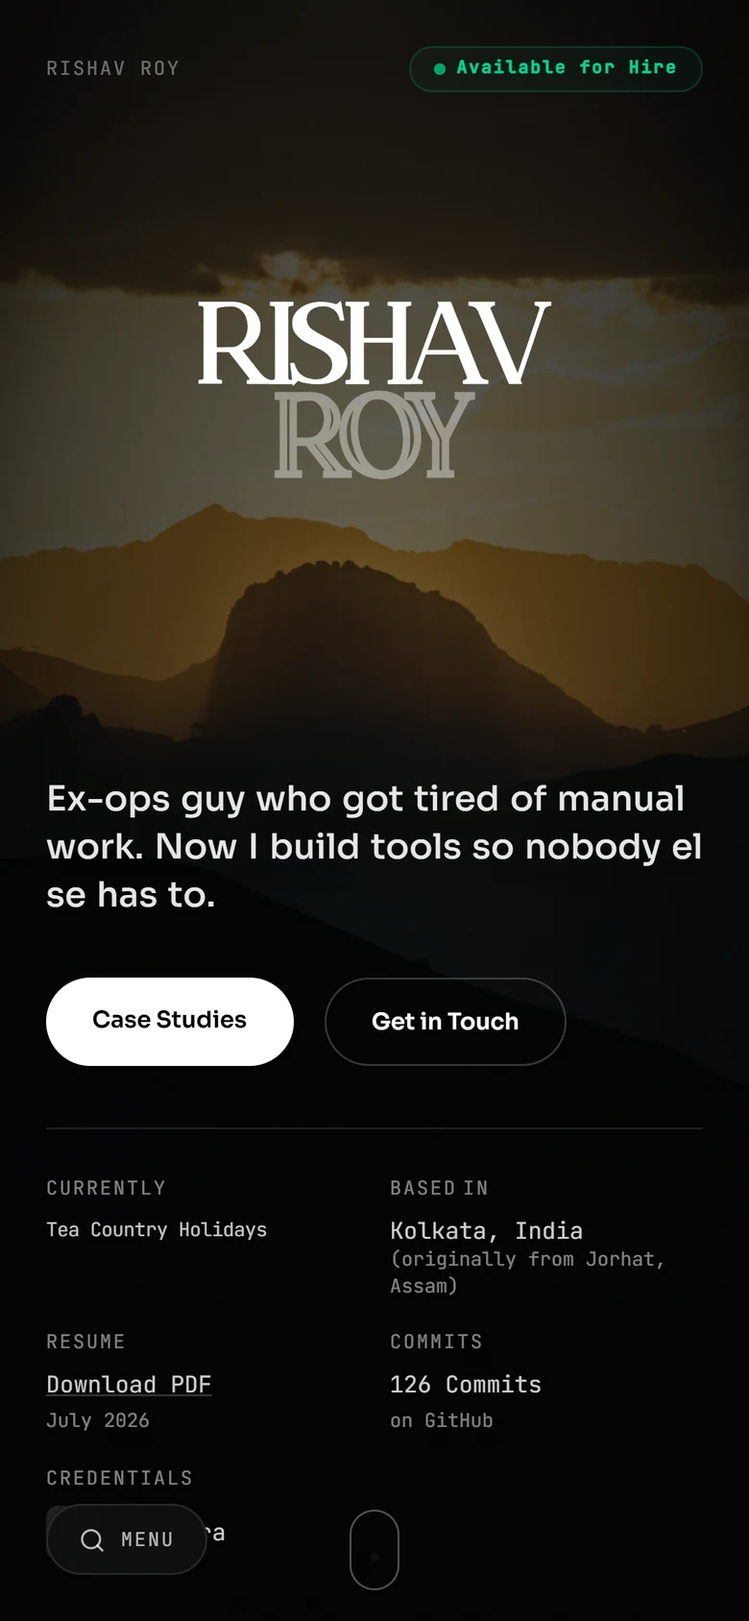
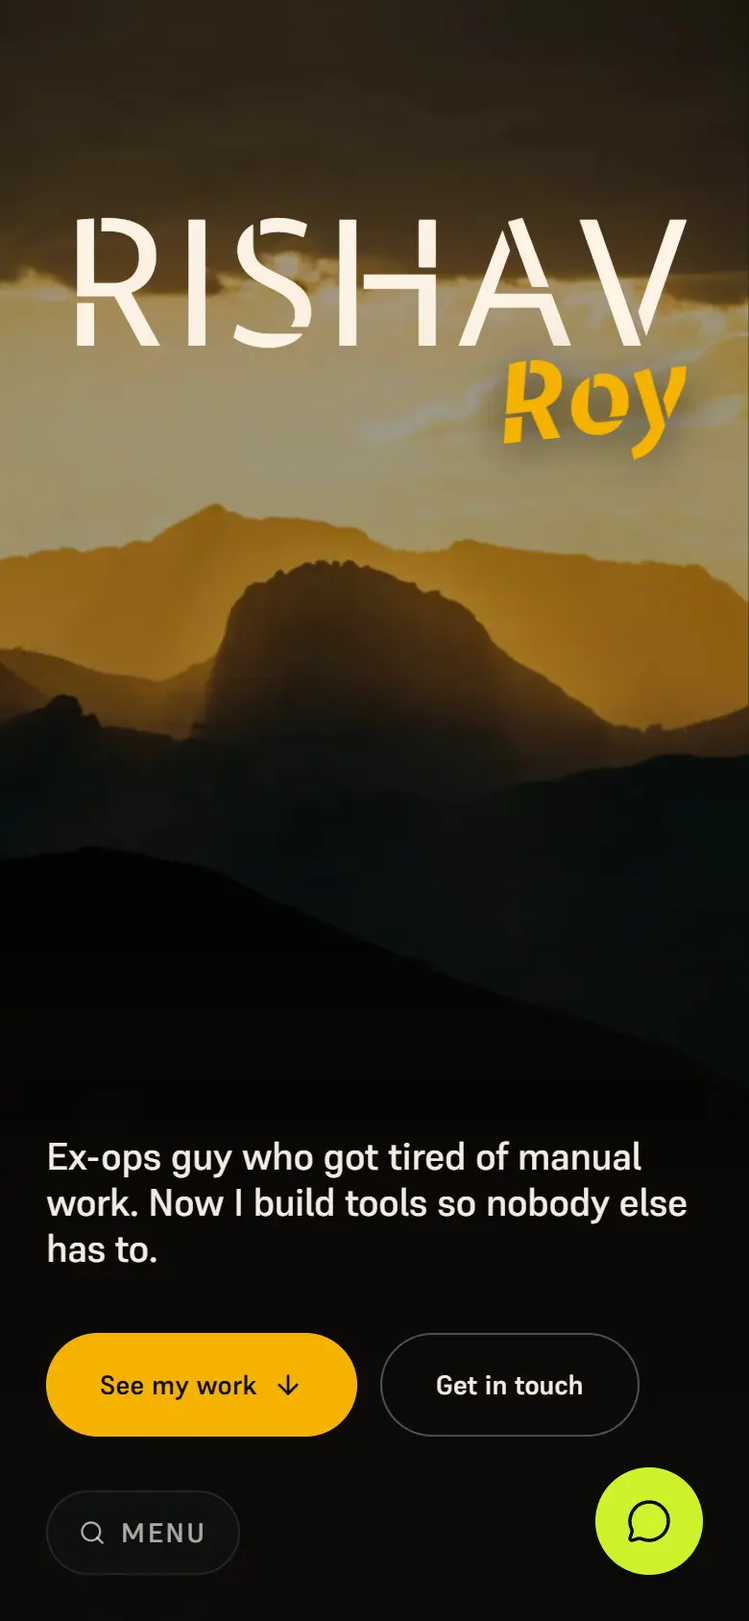
Screaming Frog fixes: clean H1, one robots tag, no meta keywords, plain case-study copy and full-sentence descriptions, new byrishav.online case study, lighter screenshots, more links to /atelier

diff --git a/src/lib/projectsData.ts b/src/lib/projectsData.ts
@@ -29,7 +29,7 @@ export const projects = [
     id: 3,
     title: "Clash Bazar",
     description:
-      "An e-commerce platform for a gaming YouTuber with 12K+ subscribers. Payments via Stripe and PayPal are held through a secure transaction workflow until order completion and a 7-day security window expires.",
+      "An e-commerce platform for the V7 CLASH gaming channel. Payments via Stripe and PayPal are held through a secure transaction workflow until order completion and a 7-day security window expires.",
     tags: ["Next.js", "Supabase", "Stripe", "PayPal", "Transaction Security", "Discord API"],
     link: "https://clash-bazar.vercel.app",
     images: [
@@ -56,6 +56,8 @@ export const projects = [
 export interface CaseStudy {
   title: string;
   tagline: string;
+  /** One complete sentence for search results, under 155 characters. */
+  summary: string;
   client: string;
   period: string;
   color: string;
@@ -78,6 +80,7 @@ export const caseStudiesData: Record<number, CaseStudy> = {
   1: {
     title: "Tea Country Holidays",
     tagline: "Custom travel platform and owner-managed CMS",
+    summary: "How we built Tea Country Holidays a travel site with its own admin, so the owner updates 34 packages and her prices without a developer.",
     client: "Tea Country Holidays Travel Agency",
     period: "Jan 2026 \u2013 Apr 2026",
     metrics: [
@@ -90,8 +93,8 @@ export const caseStudiesData: Record<number, CaseStudy> = {
     links: [
       { label: "Live Site", url: "https://tea-country-holidays.vercel.app", icon: "live" }
     ],
-    problem: "The client was running her travel business on Excel sheets, static Word files, and Gemini-assisted itinerary drafts. She had previously paid good money for a website that underdelivered. She had no way to update package information, pricing, or offers without depending on a developer for every small change.",
-    solution: "Built a custom travel platform from scratch with a bespoke admin dashboard. The non-technical owner can now add and edit packages, update fixed pricing, manage destination content, and post promotional offers, all through the CMS without writing code.",
+    problem: "The owner ran her travel business from Excel sheets and Word files. An earlier website had cost her a lot and did little. She could not change a price or add an offer without paying a developer.",
+    solution: "We built her a new travel site with its own admin. She adds packages, changes prices, edits destinations and posts offers herself, with no code.",
     architecture: {
       description: "A database-driven content platform with a custom admin layer designed for a non-technical operator.",
       steps: [
@@ -113,14 +116,15 @@ export const caseStudiesData: Record<number, CaseStudy> = {
         fix: "Designed the data model around the owner\u2019s mental model of her business rather than abstract relational purity, keeping the admin interface intuitive."
       }
     ],
-    businessValue: "Transformed the client\u2019s operation from a scattered mix of Excel and Word documents into a centralized platform she fully controls. She no longer depends on a developer for routine updates: pricing changes, new packages, and promotional offers are all self-service.",
-    lessons: "When building for a non-technical owner, the admin interface and data model matter just as much as the public-facing website. The CMS has to match how the client actually thinks about her business.",
+    businessValue: "Her business now runs from one site she controls. Price changes, new packages and offers no longer need a developer.",
+    lessons: "For an owner who isn't technical, the admin matters as much as the public site. It has to match how she thinks about her business.",
     futureImprovements: "Integration with direct flight APIs and an automated CRM payment gateway link.",
     color: "#F5B301"
   },
   2: {
     title: "IQ Iron Fitness",
     tagline: "Cloud-hosted gym management platform and billing engine",
+    summary: "How we built IQ Iron Fitness a cloud gym system: 110+ members, automatic invoices and trainer pay, fast on an old laptop and a phone.",
     client: "IQ Iron Fitness Gym Owner",
     period: "Oct 2025 \u2013 Jan 2026 (Online Overhaul)",
     metrics: [
@@ -134,8 +138,8 @@ export const caseStudiesData: Record<number, CaseStudy> = {
       { label: "Live Demo", url: "https://iq-iron-fitness-online-crm.vercel.app", icon: "live" },
       { label: "GitHub Code", url: "https://github.com/rishav00roy-web/IQ-iron-fitness-online-crm", icon: "github" }
     ],
-    problem: "The gym owner needed to track 110+ active members, handle billing, and calculate trainer pay. The system had to run smoothly on an older laptop and provide a usable mobile experience on an iPhone 15 Pro Max. There was no room for a heavy, sluggish UI.",
-    solution: "Built a Next.js + Supabase cloud platform with real-time sync, a custom billing engine that generates membership invoices, and a salary-slip builder that computes trainer commissions. The dashboard gives the owner an immediate operational snapshot: pending memberships, expiring memberships, expired memberships, today\u2019s birthdays, outstanding payments, and monthly collection totals.",
+    problem: "The gym owner had 110+ members to track, bills to send and trainer pay to work out. It all had to run well on an old laptop and on his phone.",
+    solution: "We built a cloud system that keeps every device in sync. It writes membership invoices, works out trainer salary slips, and shows the day at a glance: pending, expiring and expired memberships, birthdays, money owed and the month's takings.",
     architecture: {
       description: "A cloud-hosted architecture with real-time data sync, automated billing, and a hardware-conscious UI layer.",
       steps: [
@@ -157,18 +161,19 @@ export const caseStudiesData: Record<number, CaseStudy> = {
         fix: "Configured optimistic UI updates via React hooks alongside Supabase real-time replication broadcasts, keeping the interface responsive while maintaining data integrity."
       }
     ],
-    businessValue: "Replaced manual record-keeping with a cloud platform that gives the owner instant operational visibility. Billing and payroll are automated, and the system is built to scale comfortably as the gym grows toward 500+ members.",
-    lessons: "Designing for real-world hardware constraints, like the owner\u2019s specific older laptop, shapes performance and UI decisions more than abstract benchmarks ever will.",
+    businessValue: "Paper records are gone. The owner sees the whole gym at a glance, billing and pay are automatic, and the system can grow with the gym.",
+    lessons: "Building for the owner's real laptop shaped the design more than any benchmark would have.",
     futureImprovements: "Full SMS gateway integration and biometric scanner API sync.",
     color: "#10B981"
   },
   3: {
     title: "Clash Bazar",
     tagline: "Secure transaction platform for gaming services",
+    summary: "How we built Clash Bazar for V7 CLASH: a gaming store that holds payments until each order is checked, so buyers and sellers are safe.",
     client: "YouTube Gaming Community Creator",
     period: "May 2026 \u2013 Ongoing",
     metrics: [
-      { label: "Community", value: "12K+" },
+      { label: "Payment hold", value: "7 days" },
       { label: "Security Window", value: "7 Days" },
       { label: "Payments", value: "Stripe + PayPal" },
       { label: "Status Polling", value: "5 Min" }
@@ -178,8 +183,8 @@ export const caseStudiesData: Record<number, CaseStudy> = {
       { label: "Live Demo", url: "https://clash-bazar.vercel.app", icon: "live" },
       { label: "GitHub Code", url: "https://github.com/rishav00roy-web/ClashVault", icon: "github" }
     ],
-    problem: "High-value gaming trades are riddled with scams: buyers commit chargeback fraud, and sellers reclaim accounts after getting paid. The creator needed a structured platform to protect both sides of every transaction within their 12K+ subscriber community.",
-    solution: "Built a secure e-commerce platform with an application-managed escrow-style workflow. Payments via Stripe and PayPal are held securely until the order is verified and a 7-day security window expires. Created a custom admin dashboard so the non-technical owner can manage orders, monitor operations, and maintain a financial ledger without writing code. Connected the platform to Discord for community giveaways and free item distribution.",
+    problem: "Trading game accounts is full of scams. Buyers reverse payments, and sellers take accounts back after being paid. The V7 CLASH channel needed a safe way to trade for its community.",
+    solution: "We built a store that holds each payment until the order is checked and a 7-day safety window passes. Payments go through Stripe and PayPal. The owner runs orders, checks activity and keeps the books from his own admin, with no code.",
     architecture: {
       description: "An application-managed transaction pipeline with secure payment handling and automated status verification.",
       steps: [
@@ -201,54 +206,56 @@ export const caseStudiesData: Record<number, CaseStudy> = {
         fix: "Implemented a mandatory 7-day security window during which the account\u2019s credentials must be fully transferred and locked before funds are released."
       }
     ],
-    businessValue: "Gave the creator a secure middleman platform that protects their 12K+ subscriber community from fraud, complete with the admin tools a non-technical owner needs to run the operation independently.",
-    lessons: "Financial workflows require defensive engineering. Every payment state transition needs an idempotent fallback, and you cannot rely solely on webhooks for critical transaction confirmation.",
+    businessValue: "The channel now has a safe middleman for its community, with the admin tools to run it alone.",
+    lessons: "Money needs careful handling. Every payment step needs a backup check, because payment notifications can go missing.",
     futureImprovements: "Full automation of game account checking using Supercell API integrations.",
     color: "#8B5CF6"
   },
   4: {
-    title: "Personal Portfolio V2",
-    tagline: "A meticulously crafted developer portfolio demonstrating high-end animation and UI/UX design",
-    client: "Personal Project",
-    period: "July 2026",
+    title: "byrishav.online",
+    tagline: "Rishav Roy's portfolio and the Atelier Systems studio page: two sites, one codebase",
+    summary: "How Rishav Roy rebuilt byrishav.online: a portfolio for recruiters and a studio page for clients, with an AI assistant, fast pages and local SEO.",
+    client: "Personal project",
+    period: "Nov 2026",
     metrics: [
-      { label: "Performance", value: "98" },
-      { label: "Animations", value: "60 FPS" },
-      { label: "SEO", value: "Optimized" },
-      { label: "Design", value: "Responsive" }
+      { label: "Pages", value: "2 sites" },
+      { label: "Layout shift", value: "0.01" },
+      { label: "AI assistant", value: "Psunk" },
+      { label: "Tests", value: "15 passing" }
     ],
-    tags: ["Next.js 14", "Framer Motion", "Tailwind CSS", "React 19", "Vercel"],
+    tags: ["Next.js 16", "React 19", "Tailwind CSS v4", "GSAP", "Lenis", "Groq AI", "Schema.org"],
     links: [
       { label: "Live Site", url: "https://byrishav.online", icon: "live" },
+      { label: "Atelier Systems", url: "https://byrishav.online/atelier", icon: "live" },
       { label: "GitHub Code", url: "https://github.com/rishav00roy-web/Portfolio-website", icon: "github" }
     ],
-    problem: "Traditional developer portfolios often lack character and fail to demonstrate actual front-end engineering skills. I needed a platform that not only lists my projects but serves as a living, interactive proof of my ability to build polished, performant UIs.",
-    solution: "Developed an immersive portfolio experience using Next.js App Router and Framer Motion. Implemented scroll-linked animations, a custom command menu (Ctrl+K), and a highly optimized rendering strategy to maintain 60fps animations across devices.",
+    problem: "One site had to do two jobs. Recruiters want to read about Rishav quickly. Clients want to see work and start a project. Mixing both on one page served neither.",
+    solution: "We split it into two sites that share one codebase. The portfolio has a sunset hero, a story of his path and his experience. Atelier Systems, the studio page, has its own ivory and teal look, the client work, a clients section and a contact form. Psunk, an AI assistant, answers questions on both, trained on each site's own content.",
     architecture: {
-      description: "A modern React application structured for optimal client-side interactivity and fast static delivery.",
+      description: "One Next.js app serving two identities, with shared data so the pages, the assistant and the search data never disagree.",
       steps: [
-        { title: "Scroll Orchestration", desc: "Framer Motion\u2019s `useScroll` and `useTransform` map scroll position directly to element styles." },
-        { title: "Component Architecture", desc: "Strict separation of Server and Client components ensures minimum JS bundle size while preserving rich interactions." },
-        { title: "Global Command Palette", desc: "A custom-built `CommandMenu` provides fast, keyboard-first navigation globally." },
-        { title: "Responsive Layouts", desc: "Tailwind CSS manages complex grid structures that elegantly collapse on mobile devices without layout shifting." }
+        { title: "Two identities", desc: "Each site has its own colours and fonts, scoped in CSS, and an animated logo trace carries you from one to the other." },
+        { title: "One source of facts", desc: "Profile, services, work and FAQ live in shared data files that feed the pages, the AI assistant, llms.txt and the search schema." },
+        { title: "AI assistant", desc: "Psunk runs on Groq and answers from each site's facts only, with no prices or private client details." },
+        { title: "Found by people and AI", desc: "Structured data, an FAQ written answer-first, llms.txt and a robots.txt that welcomes AI search and answer engines." }
       ]
     },
     challenges: [
       {
-        title: "Animation Jitter on Mobile Safari",
-        description: "Complex scroll-linked transforms were causing layout recalculations and dropped frames on older iOS devices.",
-        fix: "Delegated heavy animations to the GPU by forcing `will-change: transform` and using spring physics (`useSpring`) over raw scroll values to smooth out sudden user scrolls."
+        title: "Smooth on slow phones",
+        description: "A moving background grid, screenshots and animations made the page stutter on slower phones.",
+        fix: "The grid sleeps when nothing moves, screenshots are plain images, and text effects that cost a repaint were removed. Dropped frames fell from 78% to 6% in a slowed-down test."
       },
       {
-        title: "Accessibility with Motion",
-        description: "Heavy animations can trigger motion sickness and reduce screen reader accessibility.",
-        fix: "Implemented `useReducedMotion` hooks to respect OS-level accessibility settings, gracefully degrading animations to simple opacity fades."
+        title: "Two looks without two codebases",
+        description: "The studio needed a light ivory look while the portfolio stays dark, on the same components.",
+        fix: "Each site sets its own colour and font variables in one scope, so shared parts like the contact form and chat dress themselves for the site they're on."
       }
     ],
-    businessValue: "Acts as a primary lead generation tool for freelance clients and a technical showcase for employment opportunities.",
-    lessons: "Animation must serve a purpose and never block the main thread. Prioritizing CSS transforms over layout-triggering properties is essential for 60fps experiences.",
-    futureImprovements: "Implementing an interactive 3D WebGL hero background using Three.js.",
-    color: "#3B82F6"
+    businessValue: "Recruiters get a clear story and a CV in a few seconds. Clients get the studio, its work and a quote request, and the studio can be found when someone asks a search engine or an AI assistant for a developer in Jorhat.",
+    lessons: "Plain words and fast pages beat effects. Every animation has to earn its place, and every claim on the page has to be true.",
+    futureImprovements: "Add Chennai to the studio's local pages after the move, and a short video demo of the invoice reader.",
+    color: "#CDF22B"
   }
 };
 
@@ -348,7 +355,7 @@ export const categorizedProjects: {
         title: "ClashVault (Clash Bazar)",
         githubRepoName: "ClashVault",
         category: "Client Websites",
-        description: "E-commerce and services marketplace for a gaming YouTuber with 12K+ subscribers. Payments held through a secure transaction workflow until order completion and a 7-day security window expires. Dispute resolution admin panel, dual buyer/seller dashboards.",
+        description: "E-commerce and services store for the V7 CLASH gaming channel. Payments held through a secure transaction workflow until order completion and a 7-day security window expires. Dispute resolution admin panel, dual buyer/seller dashboards.",
         tags: ["Next.js", "Supabase", "Stripe", "PayPal", "Discord API"],
         caseStudySlug: "clash-bazar",
         liveUrl: "https://clash-bazar.vercel.app",
@@ -412,11 +419,11 @@ export const categorizedProjects: {
       },
       {
         id: "personal-portfolio-v2",
-        title: "Personal Portfolio V2",
+        title: "byrishav.online",
         githubRepoName: "Portfolio-website",
         category: "Web Apps / Tools",
-        description: "An immersive, animation-driven developer portfolio built with Next.js App Router and Framer Motion. Features complex scroll-linked animations, a custom command palette (⌘K), and 100/100 Lighthouse performance across categories.",
-        tags: ["Next.js 16", "Framer Motion", "Tailwind CSS v4", "React 19"],
+        description: "This site: Rishav Roy's portfolio and the Atelier Systems studio page in one Next.js app, with an AI assistant trained on both and local SEO.",
+        tags: ["Next.js 16", "GSAP", "Tailwind CSS v4", "React 19", "Groq AI"],
         caseStudySlug: "personal-portfolio-v2",
         liveUrl: "https://byrishav.online",
         githubUrl: "https://github.com/rishav00roy-web/Portfolio-website",

diff --git a/src/app/projects/page.tsx b/src/app/projects/page.tsx
@@ -7,13 +7,13 @@ import { caseStudyIndexSchema, breadcrumbSchema, jsonLd } from "../../lib/schema
 
 export const metadata: Metadata = {
   title: "Case Studies & Project Directory",
-  description: "Comprehensive catalog of commercial client platforms, design showcases, and web automation tools engineered by Rishav Roy.",
+  description: "Every site and tool Rishav Roy has built: client websites, design builds and web apps, with case studies on how each one works.",
   alternates: {
     canonical: "/projects",
   },
   openGraph: {
     title: "Case Studies & Project Directory | Rishav Roy",
-    description: "Comprehensive catalog of commercial client platforms, design showcases, and web automation tools engineered by Rishav Roy.",
+    description: "Every site and tool Rishav Roy has built: client websites, design builds and web apps, with case studies on how each one works.",
     url: "/projects",
     siteName: "Rishav Roy Portfolio",
     type: "website",
@@ -21,7 +21,7 @@ export const metadata: Metadata = {
   twitter: {
     card: "summary_large_image",
     title: "Case Studies & Project Directory | Rishav Roy",
-    description: "Comprehensive catalog of commercial client platforms, design showcases, and web automation tools engineered by Rishav Roy.",
+    description: "Every site and tool Rishav Roy has built: client websites, design builds and web apps, with case studies on how each one works.",
   },
 };
 
@@ -104,7 +104,11 @@ export default function ProjectsPage() {
               Detailed Case Studies
             </h1>
             <p className="text-base sm:text-lg text-white/60 leading-relaxed font-sans">
-              A categorized index of production client platforms, design showcases, and web automation tools engineered by Rishav Roy. Every system was built to remove manual operational overhead so non-technical stakeholders can operate autonomously.
+              Every site and tool Rishav Roy has built, sorted by kind. Each one was made so its owner can run it without calling a developer. For the client work and how a project runs, visit{" "}
+              <Link href="/atelier" className="text-white underline decoration-white/30 underline-offset-4 hover:decoration-white">
+                Atelier Systems
+              </Link>
+              .
             </p>
           </div>
 

diff --git a/src/app/projects/[slug]/page.tsx b/src/app/projects/[slug]/page.tsx
@@ -7,11 +7,6 @@ import CaseStudyArticle from "../../../components/CaseStudyArticle";
 import { allCaseStudies, getCaseStudyBySlug } from "../../../lib/projectsData";
 import { caseStudySchema, breadcrumbSchema, jsonLd } from "../../../lib/schema";
 
-function clip(text: string, max: number) {
-  if (text.length <= max) return text;
-  return text.slice(0, text.lastIndexOf(" ", max - 1)).replace(/[,.;:]$/, "") + "…";
-}
-
 export async function generateStaticParams() {
   return allCaseStudies.map((c) => ({ slug: c.slug }));
 }
@@ -30,9 +25,8 @@ export async function generateMetadata({
   if (!caseStudy) return {};
 
   const title = `${caseStudy.title} Case Study`;
-  // Taglines alone run ~45 characters; pad with the problem statement so the
-  // snippet uses the space search results give it (~155 characters).
-  const description = clip(`${caseStudy.tagline}. ${caseStudy.problem}`, 155);
+  // A complete sentence written for search results (no mid-sentence cut).
+  const description = caseStudy.summary;
 
   return {
     title: { absolute: `${title} | Rishav Roy` },
@@ -119,6 +113,13 @@ export default async function CaseStudyPage({
           <div className="max-w-3xl mb-16">
             <h1 className="text-4xl sm:text-6xl font-sans tracking-tight mb-6">{caseStudy.title}</h1>
             <p className="text-lg sm:text-xl text-white/50 leading-relaxed font-sans">{caseStudy.tagline}</p>
+            <p className="mt-4 text-base text-white/60">
+              Built by{" "}
+              <Link href="/atelier" className="text-white underline decoration-white/30 underline-offset-4 hover:decoration-white">
+                Atelier Systems
+              </Link>
+              , Rishav Roy&apos;s studio.
+            </p>
           </div>
 
           <CaseStudyArticle caseStudy={caseStudy} />

diff --git a/src/components/Hero.tsx b/src/components/Hero.tsx
@@ -87,12 +87,12 @@ export default function Hero() {
           data-hero-name-wrap
           className="will-change-transform absolute inset-x-0 top-[13%] sm:top-[16%] lg:top-[12%] z-[2] flex justify-center pointer-events-none select-none"
         >
-          <h1 className="font-display uppercase text-center leading-[0.78] tracking-[-0.02em]">
-            <span className="sr-only">Rishav Roy, Operations &amp; Automation Specialist</span>
-            <span aria-hidden="true" data-hero-name className="block text-[24vw] lg:text-[17.5vw] text-[#fbf3e6] [text-shadow:0_8px_40px_rgba(224,121,31,0.35)]">
+          <h1 className="sr-only font-display">Rishav Roy, Operations &amp; Automation Specialist</h1>
+          <p aria-hidden="true" className="font-display uppercase text-center leading-[0.78] tracking-[-0.02em]">
+            <span data-hero-name className="block text-[24vw] lg:text-[17.5vw] text-[#fbf3e6] [text-shadow:0_8px_40px_rgba(224,121,31,0.35)]">
               Rishav
             </span>
-          </h1>
+          </p>
         </div>
 
         {/* Plate 2: the ridge, cut from the same photo */}

diff --git a/src/app/layout.tsx b/src/app/layout.tsx
@@ -32,31 +32,16 @@ export const metadata: Metadata = {
   applicationName: `${PROFILE.name} Portfolio`,
   authors: [{ name: PROFILE.name, url: SITE_URL }],
   creator: PROFILE.name,
-  keywords: [
-    "Rishav Roy",
-    "Operations Specialist",
-    "Automation Specialist",
-    "Business Automation",
-    "Remote Operations",
-    "FOIA Specialist",
-    "Custom CRM",
-    "Next.js Developer",
-    "Jorhat",
-    "Assam",
-  ],
   alternates: {
     canonical: "/",
   },
+  // One robots tag for every crawler (a separate googlebot tag duplicated it).
   robots: {
     index: true,
     follow: true,
-    googleBot: {
-      index: true,
-      follow: true,
-      "max-image-preview": "large",
-      "max-snippet": -1,
-      "max-video-preview": -1,
-    },
+    "max-image-preview": "large",
+    "max-snippet": -1,
+    "max-video-preview": -1,
   },
   openGraph: {
     title: TITLE,

diff --git a/src/components/studio/Showcase.tsx b/src/components/studio/Showcase.tsx
@@ -91,8 +91,8 @@ const COPY: Record<string, { title?: string; description: string }> = {
     description: "A site for a dog boarding, daycare and grooming business, with its own page for each service and for trail walks.",
   },
   "personal-portfolio-v2": {
-    title: "Portfolio, version 2",
-    description: "Rishav's previous portfolio: scroll-driven animation throughout and a command menu you can open with ⌘K.",
+    title: "byrishav.online",
+    description: "Rishav's own site: a portfolio for recruiters and this studio page, with Psunk, an AI assistant trained on both.",
   },
   "gym-crm": {
     title: "Gym CRM",

diff --git a/src/app/atelier/page.tsx b/src/app/atelier/page.tsx
@@ -4,7 +4,7 @@ import { faqSchema, jsonLd, studioSchema } from "@/lib/schema";
 import { FAQ, SERVICES } from "@/lib/studio";
 
 const DESCRIPTION =
-  "A Jorhat, Assam studio that designs and builds websites, web apps, automations and AI tools for growing businesses. Run by Rishav Roy, working with clients across India and abroad.";
+  "A Jorhat, Assam studio building websites, web apps, automations and AI tools for growing businesses. Run by Rishav Roy, working across India.";
 
 // Browser chrome matches the studio's ivory, not the portfolio's dusk.
 export const viewport: Viewport = { themeColor: "#f3eee8" };

diff --git a/src/lib/work.ts b/src/lib/work.ts
@@ -25,7 +25,7 @@ const PREVIEWS: Record<string, string> = {
   "job-tracker-and-email-tracker": "/assets/projects/job-tracker-board.webp",
   "microgreens-site": "/assets/projects/microgreens-full.webp",
   "gym-crm": "/assets/projects/gym-crm-full.png",
-  "personal-portfolio-v2": "/assets/projects/portfolio-v2-full.png",
+  "personal-portfolio-v2": "/assets/projects/shots/desktop/personal-portfolio-v2.webp",
   "truwest-company-page": "/assets/projects/truwest-full.png",
   chriskennelsite: "/assets/projects/willchris-full.png",
   "roy-and-co-website": "/assets/projects/roy-group-full.jpg",

diff --git a/src/components/CaseStudyArticle.tsx b/src/components/CaseStudyArticle.tsx
@@ -17,7 +17,7 @@ export default function CaseStudyArticle({ caseStudy }: { caseStudy: CaseStudyWi
         {/* Left Column: Context & Metadata */}
         <div className="lg:col-span-4 space-y-8">
           <div>
-            <h2 className="text-3xl font-semibold mb-3">{caseStudy.title}</h2>
+            <h2 className="text-3xl font-semibold mb-3">The project at a glance</h2>
             <p className="text-white/50 text-sm font-medium">{caseStudy.tagline}</p>
           </div>
 

diff --git a/src/components/CommandMenu.tsx b/src/components/CommandMenu.tsx
@@ -83,6 +83,15 @@ export default function CommandMenu() {
     },
     {
       category: "Navigation",
+      label: "Atelier Systems (studio and client work)",
+      icon: <Laptop className="w-4 h-4" />,
+      action: () => {
+        setIsOpen(false);
+        router.push("/atelier");
+      },
+    },
+    {
+      category: "Navigation",
       label: "View Case Studies",
       icon: <Laptop className="w-4 h-4" />,
       action: () => {

diff --git a/next.config.ts b/next.config.ts
@@ -4,6 +4,7 @@ const nextConfig: NextConfig = {
   redirects: async () =>
     ["/v5", "/v6", "/v7", "/v9", "/v10"].map((source) => ({ source, destination: "/", permanent: true })),
   images: {
+    deviceSizes: [640, 750, 828, 1080, 1200, 1920],
     formats: ["image/avif", "image/webp"],
   },
   headers: async () => [
